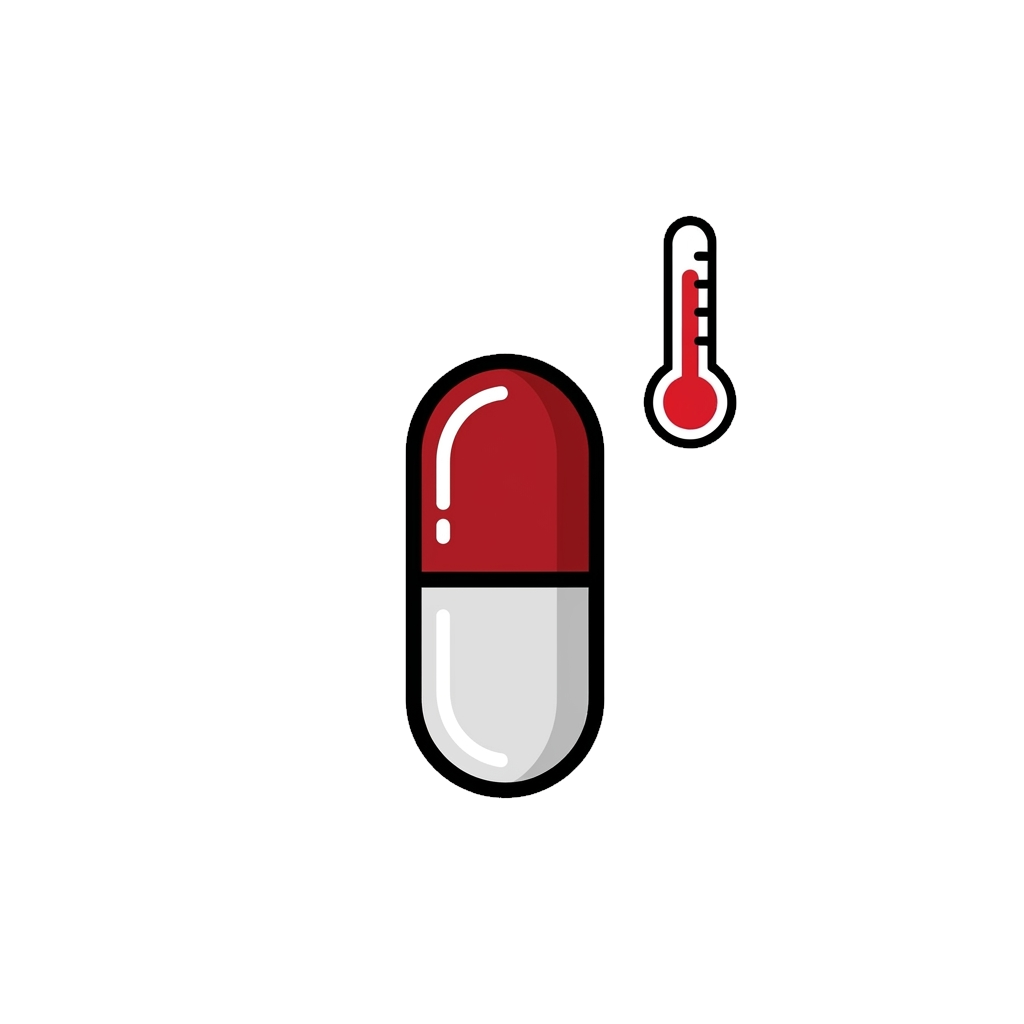
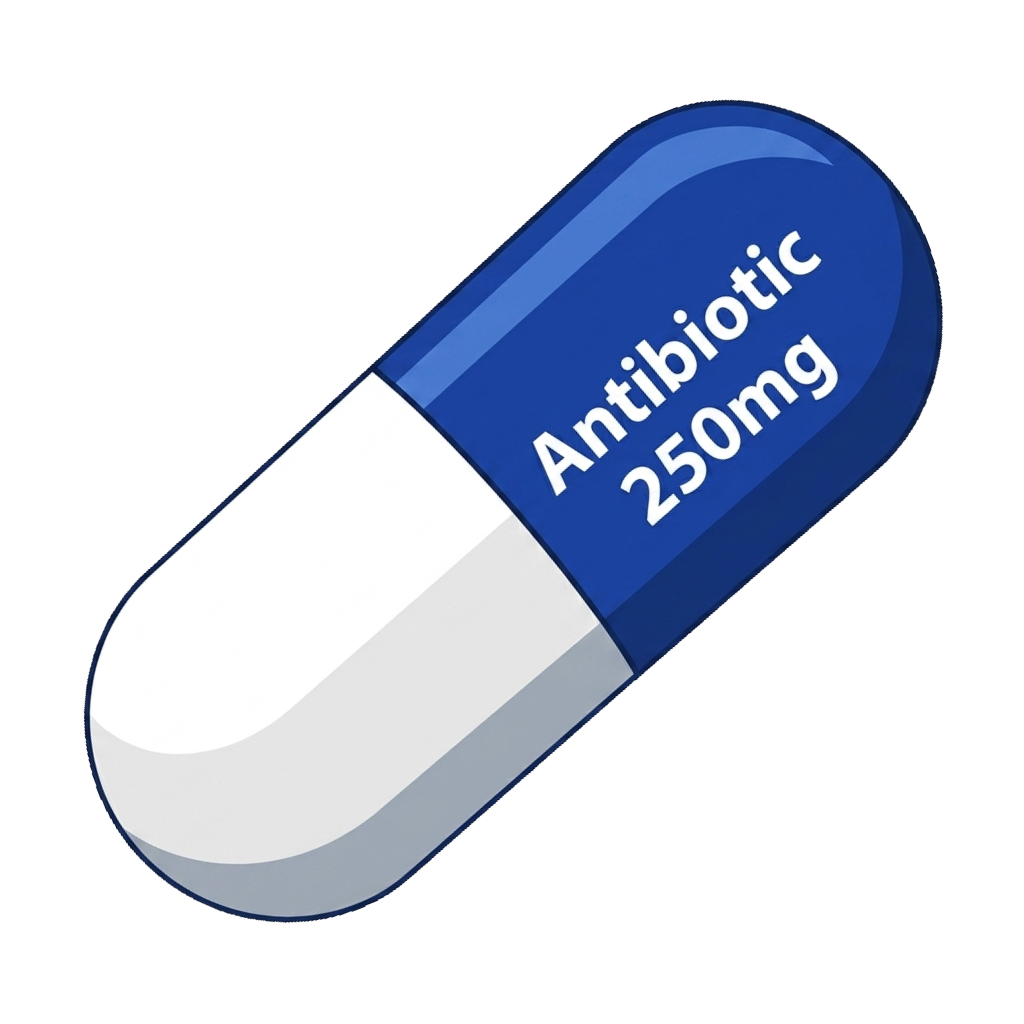
12345678
12345678

diff --git a/Assets/Scenes/04_Scripts/SkillItem/ItemHangsengje.cs b/Assets/Scenes/04_Scripts/SkillItem/ItemHangsengje.cs
@@ -23,6 +23,13 @@ public class ItemAntibiotics : ItemBase
         StartCoroutine(AntibioticsDamageRoutine());
     }
 
+    // 💡여기에 코드를 추가했습니다! 버튼 이벤트 연결용 public 함수
+    public void OnButtonClick()
+    {
+        // 버튼을 누르면 이 함수가 호출되고, 내부에서 실제 아이템 효과를 실행합니다.
+        ActivateItemEffect();
+    }
+
     private IEnumerator AntibioticsDamageRoutine()
     {
         Debug.Log("<color=green><b>[아이템] 항생제 작동 시작!</b></color> 모든 병원체 최대 체력 비례 DoT 피해 가동.");
